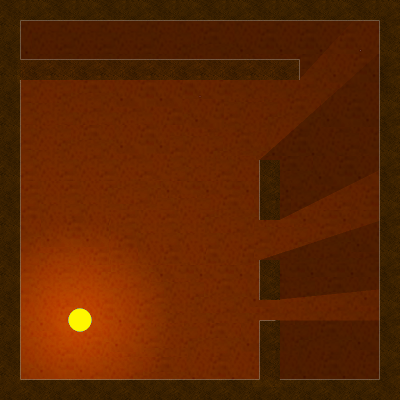
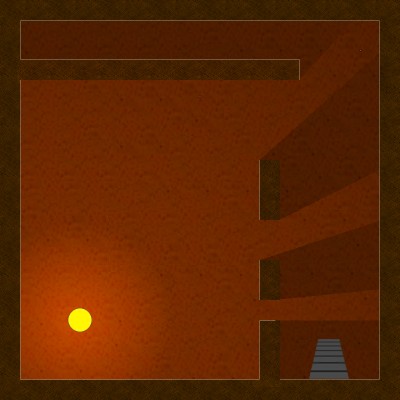
Add new enemy sprites. Add scoring system. Add win collision.

Changed region(s): [[0.75, 0.84, 0.87, 0.96]]

diff --git a/core/src/za/co/jethromuller/ctst/Level.java b/core/src/za/co/jethromuller/ctst/Level.java
@@ -55,6 +55,16 @@ public class Level implements Screen {
     private OrthogonalTiledMapRenderer mapRenderer;
     private ShapeRenderer shapeRenderer;
 
+    private long startTime;
+    private long endTime;
+
+    private int timesSeen = 0;
+    private int baseScore = 500;
+    private double finalScore;
+
+    private Rectangle staircase;
+
+
     public Level(CtstGame game, String level) {
         super();
         this.game = game;
@@ -98,7 +108,12 @@ public class Level implements Screen {
     public void addMapObjects(Object obj) {
         if (obj instanceof Array<?>) {
             for (Object mapObject : ((Array) obj)) {
-                addMapObject(mapObject);
+                if (mapObject instanceof RectangleMapObject && ((RectangleMapObject) mapObject)
+                        .getName().equals("staircase")) {
+                    staircase = ((RectangleMapObject) mapObject).getRectangle();
+                } else {
+                    addMapObject(mapObject);
+                }
             }
         }
     }
@@ -126,6 +141,24 @@ public class Level implements Screen {
     public void lightsOff() {
         gameMap.getLayers().get("gameMapLight").setVisible(false);
         lightsOff = true;
+    }
+
+    public Rectangle getStaircase() {
+        return staircase;
+    }
+
+    public void seePlayer() {
+        timesSeen += 1;
+    }
+
+    public String getStealthy() {
+        if (timesSeen == 0) {
+            return "Godly Sneakmeister Deluxe";
+        } else if (timesSeen < 5) {
+            return "Corvo would be proud";
+        } else {
+            return "No, it hurts to see you try";
+        }
     }
 
     private int[] getGridCoords(Object entity) {
@@ -176,9 +209,9 @@ public class Level implements Screen {
     }
 
     public void updatePositionInGrid(Entity entity) {
-        for (int i = 0; i < mapGrid.length; i++) {
+        for (Array<Object>[] aMapGrid : mapGrid) {
             for (int j = 0; j < mapGrid[0].length; j++) {
-                mapGrid[i][j].removeValue(entity, false);
+                aMapGrid[j].removeValue(entity, false);
             }
         }
 
@@ -325,7 +358,21 @@ public class Level implements Screen {
     }
 
     public void win() {
+        endTime = System.currentTimeMillis();
+        calculateScore();
         game.setScreen(new ScoreScreen(game, this));
+    }
+
+    private void calculateScore() {
+        finalScore = (baseScore - (50 * timesSeen))/ (getTime() / 5);
+    }
+
+    public double getScore() {
+        return finalScore;
+    }
+
+    public double getTime() {
+        return (endTime - startTime) / 1000;
     }
 
     public String getLevelName() {
@@ -340,6 +387,7 @@ public class Level implements Screen {
     @Override
     public void show() {
         game.musicController.startGameMusic();
+        startTime = System.currentTimeMillis();
     }
 
     @Override

diff --git a/core/src/za/co/jethromuller/ctst/menus/ScoreScreen.java b/core/src/za/co/jethromuller/ctst/menus/ScoreScreen.java
@@ -6,6 +6,7 @@ import com.badlogic.gdx.Input;
 import com.badlogic.gdx.Screen;
 import com.badlogic.gdx.graphics.GL20;
 import com.badlogic.gdx.graphics.Texture;
+import com.badlogic.gdx.graphics.g2d.BitmapFont;
 import com.badlogic.gdx.graphics.g2d.SpriteBatch;
 import com.badlogic.gdx.graphics.glutils.ShapeRenderer;
 import za.co.jethromuller.ctst.CtstGame;
@@ -22,6 +23,9 @@ public class ScoreScreen implements Screen {
     private int[] yCoords = {84, 50};
     private Level currentLevel;
 
+    private BitmapFont font;
+
+
     public ScoreScreen(CtstGame game, Level currentLevel) {
         super();
         this.game = game;
@@ -29,6 +33,7 @@ public class ScoreScreen implements Screen {
         batch = game.getBatch();
         scoreScreen = new Texture(Gdx.files.internal ("score_screen.png"));
         this.currentLevel = currentLevel;
+        font = new BitmapFont();
     }
 
     @Override
@@ -55,6 +60,10 @@ public class ScoreScreen implements Screen {
 
         batch.begin();
         batch.draw(scoreScreen, 0, 0);
+        font.setScale(1.2F);
+        font.draw(batch, String.valueOf(((int) currentLevel.getScore())), 170, 295);
+        font.draw(batch, String.valueOf(currentLevel.getTime()), 170, 254);
+        font.draw(batch, currentLevel.getStealthy(), 170, 210);
         batch.end();
 
         shapeRenderer.begin(ShapeRenderer.ShapeType.Filled);

diff --git a/core/src/za/co/jethromuller/ctst/entities/Enemy.java b/core/src/za/co/jethromuller/ctst/entities/Enemy.java
@@ -21,10 +21,12 @@ public class Enemy extends Entity {
     private float deltaY = 0;
     private float speed = 0.8F;
 
+    private boolean seen;
+
     private Random randTime;
 
     public Enemy(Level level, float x, float y) {
-        super(level, x, y, "entities/enemy/enemy.png");
+        super(level, x, y, "entities/enemy/enemy_down.png");
         visionRange = new Circle(x + visionRadius, y + visionRadius, visionRadius);
         hearingRange = new Circle(x + hearingRadius, y + hearingRadius, hearingRadius);
         pastTime = 0;
@@ -41,6 +43,10 @@ public class Enemy extends Entity {
 
         if (Intersector.overlaps(player.getCircleBounds(), visionRange) &&
             !currentLevel.inShadow(player)) {
+            if (!seen) {
+                currentLevel.seePlayer();
+                seen = true;
+            }
             speed = 0.9F;
             visionRadius = 180;
             if (getX() < player.getX()) {
@@ -55,6 +61,7 @@ public class Enemy extends Entity {
                 deltaY = -speed;
             }
         } else {
+            seen = false;
             speed = 0.6F;
             visionRadius = 80;
             if ((System.currentTimeMillis() - pastTime) > (randTime.nextInt(2000) + 2000)) {

diff --git a/core/src/za/co/jethromuller/ctst/MusicController.java b/core/src/za/co/jethromuller/ctst/MusicController.java
@@ -21,11 +21,12 @@ public class MusicController {
         String musicPath = "music/*.ogg";
         for (int i = 0; i < songs.length; i++) {
             songs[i] = Gdx.audio.newMusic(Gdx.files.internal(musicPath.replace("*", songNames[i])));
+            songs[i].setVolume(0);
             songs[i].setOnCompletionListener(onCompletionListener);
         }
 
         menuMusic = Gdx.audio.newMusic(Gdx.files.internal(musicPath.replace("*", menuMusicName)));
-        menuMusic.setVolume(0.6F);
+        menuMusic.setVolume(0.0F);
         menuMusic.setLooping(true);
 
         selectSound = Gdx.audio.newSound(Gdx.files.internal("sound_effects/main_menu_select.ogg"));
@@ -36,7 +37,7 @@ public class MusicController {
         public void onCompletion(Music music) {
             currentSelection = ((currentSelection + 1) % songNames.length);
             songs[currentSelection].play();
-            songs[currentSelection].setVolume(0.5f);
+            songs[currentSelection].setVolume(0.0f);
         }
     };
 

diff --git a/core/src/za/co/jethromuller/ctst/entities/Player.java b/core/src/za/co/jethromuller/ctst/entities/Player.java
@@ -37,7 +37,7 @@ public class Player extends Entity {
      * @param y           The y coordinate of the player entity.
      */
     public Player(Level level, float x, float y) {
-        super(level, x, y, "entities/player_down.png");
+        super(level, x, y, "entities/player/player_down.png");
         radius = (getWidth() / 2);
         circleBounds = new Circle();
         circleBounds.set(x + radius, y + radius, radius);
@@ -107,6 +107,11 @@ public class Player extends Entity {
      */
     protected void collisionDetection(float newX, float newY) {
         Circle newCircle = new Circle(newX + radius, newY + radius, radius);
+
+        if (Intersector.overlaps(newCircle, currentLevel.getStaircase())) {
+            currentLevel.win();
+            return;
+        }
 
         if (Intersector.overlaps(newCircle, currentLevel.getLightSource())) {
             return;
